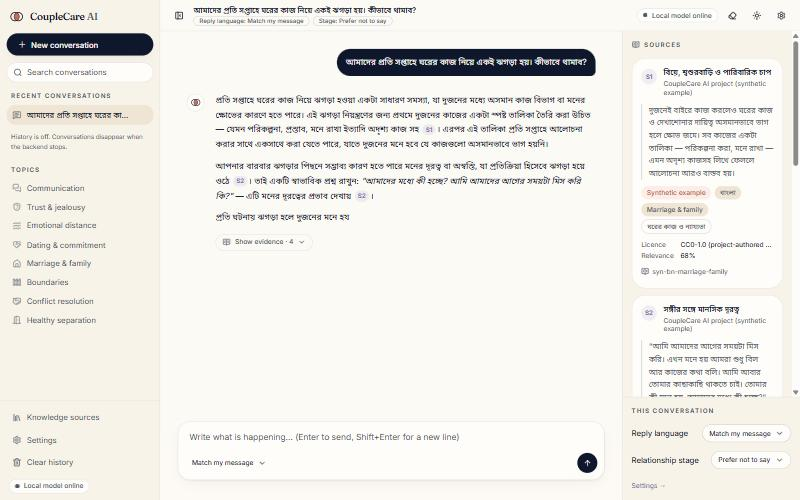
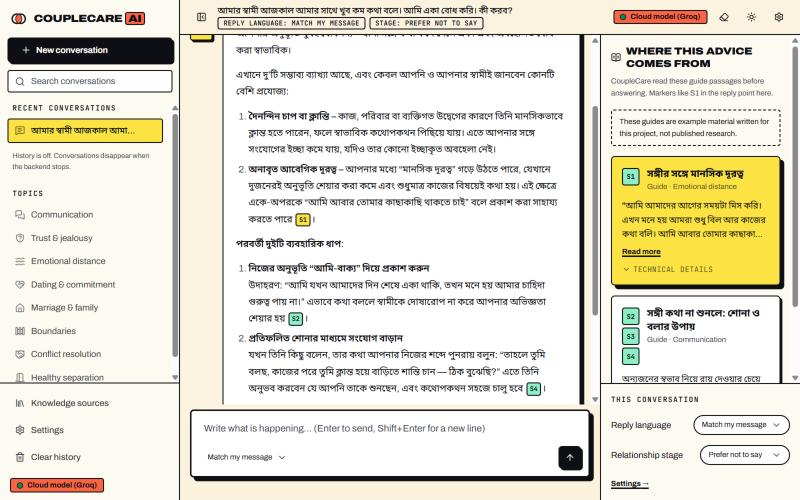
fix(citations): normalise bare and full-width citation labels (Groq); new screenshots of the redesigned app

diff --git a/backend/app/retrieval/citations.py b/backend/app/retrieval/citations.py
@@ -22,6 +22,12 @@ from app.retrieval.retriever import RetrievedItem
 # Accept [S1], [S1, S2], [S1][S2] and the common model variant "[Source 1]".
 MARKER_RE = re.compile(r"\[(?:S|Source\s*)(\d{1,2})(?:\s*[,;]\s*(?:S|Source\s*)?\d{1,2})*\]", re.IGNORECASE)
 INNER_RE = re.compile(r"(\d{1,2})")
+# Bare labels some models write in running text ("this is S2's method", "এটি S2-এর পদ্ধতি"). They are bracketed
+# first so they are validated like any other marker (and become clickable in the UI). Uppercase "S" only, not
+# part of a Latin word or number, and not already inside brackets.
+BARE_RE = re.compile(r"(?<![A-Za-z0-9\[])S(\d{1,2})(?![A-Za-z0-9\]])")
+# Full-width brackets used by some models (gpt-oss): 【S1】, 【S1†L3-L5】.
+FULLWIDTH_RE = re.compile(r"【\s*S(\d{1,2})[^】]{0,24}】")
 EXCERPT_CHARS = 320
 
 
@@ -64,7 +70,7 @@ def validate_citations(answer: str, available: int) -> CitationCheck:
                 cited.append(cid)
         return "".join(f"[{citation_id(n)}]" for n in valid)
 
-    text = MARKER_RE.sub(_replace, answer)
+    text = MARKER_RE.sub(_replace, BARE_RE.sub(r"[S\1]", FULLWIDTH_RE.sub(r"[S\1]", answer)))
     text = re.sub(r"[ \t]+([.,;:!?।])", r"\1", text)
     return CitationCheck(text=text, cited_ids=cited, removed_markers=removed)
 

diff --git a/backend/tests/test_citations.py b/backend/tests/test_citations.py
@@ -56,3 +56,20 @@ def test_context_labels_match_card_ids(container) -> None:
     for card in build_source_cards(result.items, []):
         assert f"[{card.citation_id}]" in context
     assert "synthetic example" in context
+
+
+def test_bare_labels_in_running_text_are_validated() -> None:
+    check = validate_citations("এটি S2-এর পদ্ধতি। Try this (S1). Also S9 says so.", available=3)
+    assert check.text == "এটি [S2]-এর পদ্ধতি। Try this ([S1]). Also  says so."
+    assert check.cited_ids == ["S2", "S1"] and check.removed_markers == 1
+
+
+def test_bare_label_lookalikes_are_left_alone() -> None:
+    text = "Use LS2 cables, see [S1], model GPT-S2X and size s2."
+    assert validate_citations(text, available=3).text == text
+
+
+def test_fullwidth_bracket_citations_are_normalised() -> None:
+    check = validate_citations("দোষারোপ নেই 【S1】। Also 【S2†L3-L5】 and 【S7】.", available=3)
+    assert check.text == "দোষারোপ নেই [S1]। Also [S2] and."
+    assert check.cited_ids == ["S1", "S2"] and check.removed_markers == 1

diff --git a/README.md b/README.md
@@ -9,11 +9,11 @@ model and retrieval-augmented generation (RAG) with source citations and an inde
 
 ![CoupleCare AI landing page (light theme)](docs/screenshots/landing-light.jpg)
 
-| Grounded answer with citations (English) | Bangla answer with sources | Knowledge base (dark theme) |
+| English answer — source S1 highlighted | Bangla answer with clickable sources | Knowledge base (dark theme) |
 |---|---|---|
 | ![Chat in English](docs/screenshots/chat-english.jpg) | ![Chat in Bangla](docs/screenshots/chat-bangla.jpg) | ![Knowledge page](docs/screenshots/knowledge-dark.jpg) |
 
-_Screenshots of the real app running locally with Qwen3-4B on an RTX 4060; the knowledge base shown is the bundled synthetic development corpus. **They show the earlier design** — the interface was redesigned on 2026-10-15 (neo-brutalist, kinetic typography); new screenshots are pending._
+_Screenshots of the real app (redesigned 2026-10-15). The chat screenshots were taken in optional cloud mode (Groq `openai/gpt-oss-120b`, note the “Cloud model (Groq)” badge); the default local mode uses Qwen3-4B on the RTX 4060. The knowledge base shown is the bundled synthetic development corpus._
 
 ## Status (2026-10-15)
 
